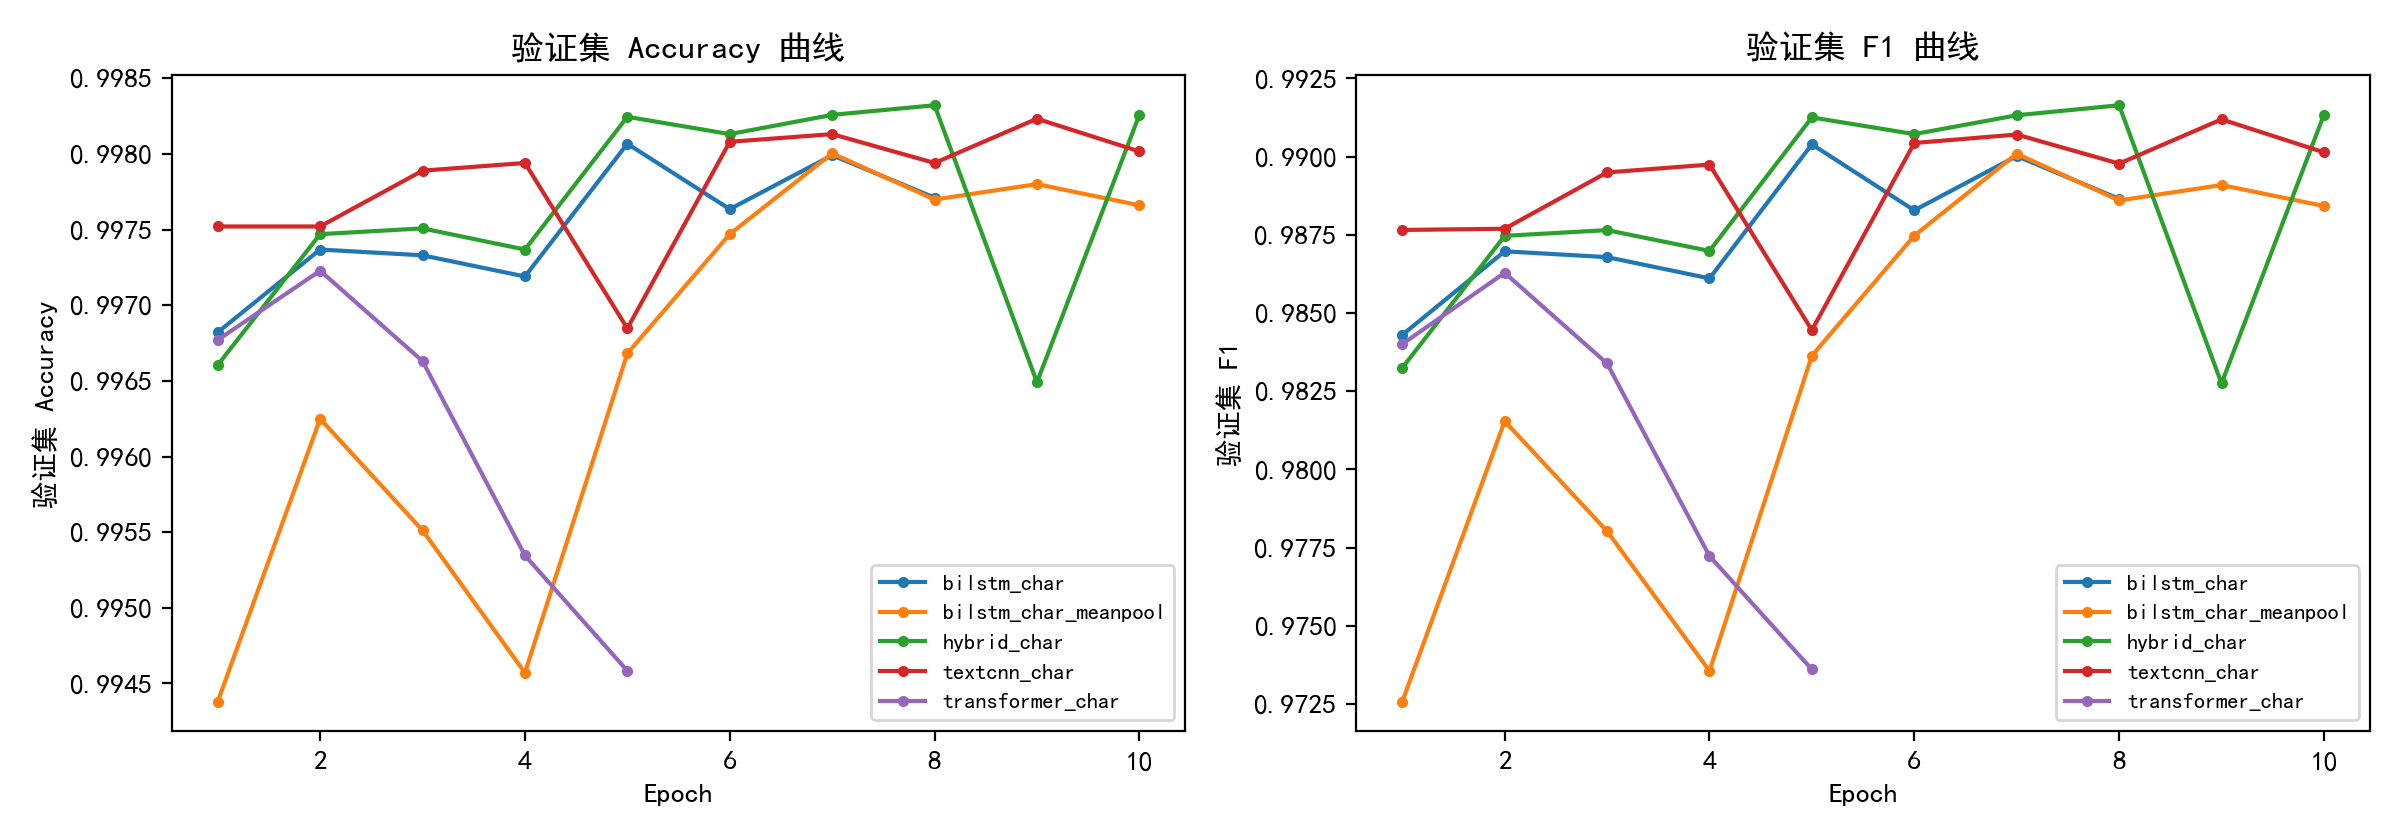
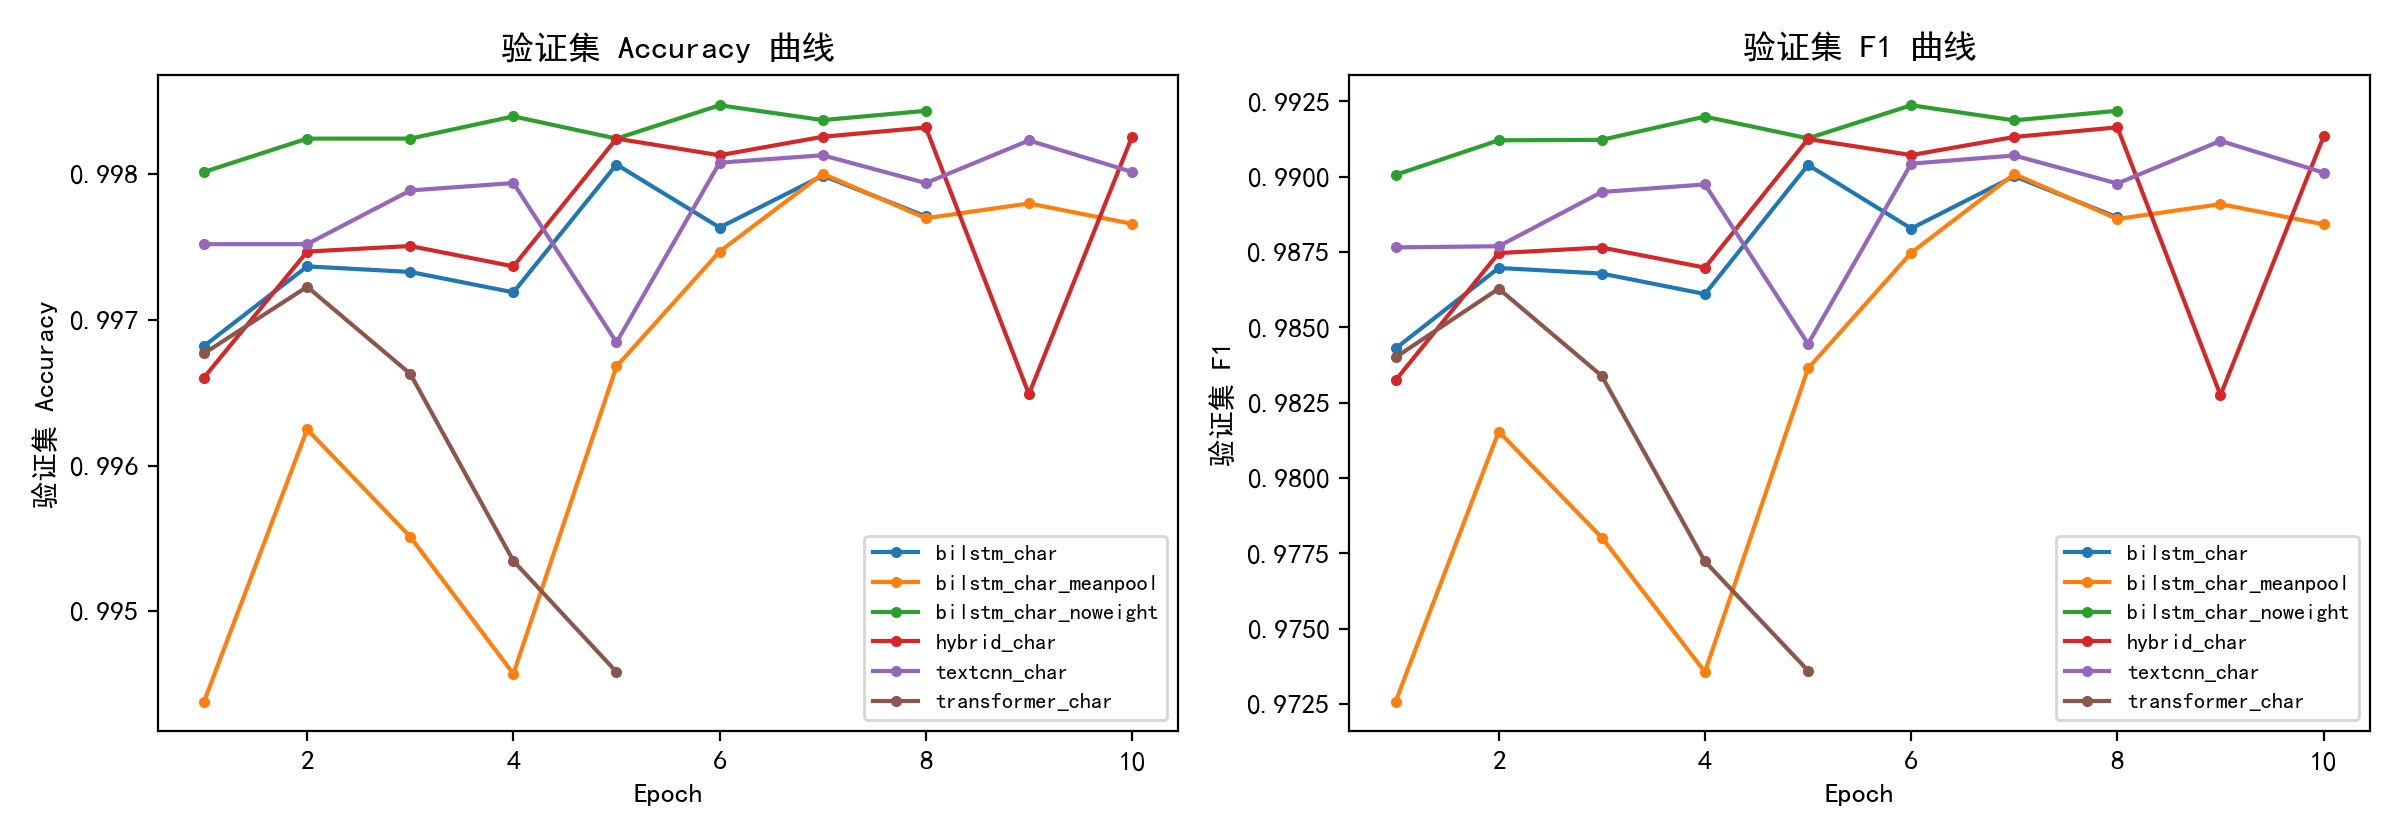
feat: 消融②结果补入报告（类别加权权衡分析），最终版报告

diff --git a/src/make_report.py b/src/make_report.py
@@ -322,12 +322,20 @@ def build_report(doc):
              "BiLSTM（注意力池化，无类别加权）"]
     abl_variants.sort(key=lambda x: order.index(x[0]) if x[0] in order else 99)
     if abl_variants:
+        import csv as _csv
         abl_rows = []
         for variant, r in abl_variants:
-            t, v = r["test"], r.get("val", {})
+            t = r["test"]
+            val_f1 = None
+            r_tag = r.get("tag") or f"{r.get('model', '')}_{r.get('level', '')}"
+            hist_path = os.path.join(MODEL_DIR, f"{r_tag}_history.csv")
+            if os.path.exists(hist_path):
+                with open(hist_path, encoding="utf-8") as f:
+                    val_f1 = max(float(h["val_f1"])
+                                 for h in _csv.DictReader(f))
             abl_rows.append([variant, fmt(t["f1"]), fmt(t["recall"]),
                              fmt(t["precision"]), fmt(t["accuracy"]),
-                             fmt(v.get("f1"), 4)])
+                             fmt(val_f1, 4)])
         add_table(doc,
                   ["配置", "测试 F1", "测试 Recall", "测试 Precision",
                    "测试 Accuracy", "验证 F1"],
@@ -340,15 +348,20 @@ def build_report(doc):
             no_w_row = next((r for v, r in abl_variants if "无类别加权" in v), None)
             if weight_row and no_w_row:
                 d_rec = weight_row["test"]["recall"] - no_w_row["test"]["recall"]
+                d_pre = weight_row["test"]["precision"] - no_w_row["test"]["precision"]
                 d_f1 = weight_row["test"]["f1"] - no_w_row["test"]["f1"]
-                rec_desc = f"去掉加权后召回率下降 {abs(d_rec):.4f}" if d_rec > 0 \
-                    else f"去掉加权后召回率反而上升 {abs(d_rec):.4f}"
-                f1_desc = f"F1 下降 {abs(d_f1):.4f}" if d_f1 > 0 \
-                    else f"F1 上升 {abs(d_f1):.4f}"
-                add_p(doc, f"由表 1 可见：注意力池化与均值池化在该任务上性能接近"
-                           f"（短信文本较短、平均 25.6 字，长程依赖有限）；类别加权"
-                           f"损失对正负样本不均衡（垃圾短信仅占 10%）问题具有缓解"
-                           f"作用——{rec_desc}，{f1_desc}。", indent=True)
+                rec_dir = "提升" if d_rec > 0 else "降低"
+                pre_dir = "降低" if d_pre < 0 else "提升"
+                f1_dir = "提升" if d_f1 > 0 else "降低"
+                add_p(doc, f"由表 1 可见：① 注意力池化与均值池化在该任务上性能接近"
+                           f"（短信文本较短、平均 25.6 字，长程依赖有限）；② 类别"
+                           f"加权损失以牺牲精确率为代价换取了召回率——去掉加权后"
+                           f"召回率{rec_dir} {abs(d_rec):.4f}、精确率{pre_dir} "
+                           f"{abs(d_pre):.4f}、F1 {f1_dir} {abs(d_f1):.4f}。"
+                           f"这说明加权损失改变了正负类的决策边界偏向，实际部署时"
+                           f"可按业务对漏判/误报的代价偏好决定是否使用；在本数据集"
+                           f"上（垃圾短信占 10%），不加权的模型综合表现已足够好。",
+                           indent=True)
         else:
             add_p(doc, "由表 1 可见：注意力池化与均值池化在该任务上性能接近，"
                        "这是因为短信文本较短（平均 25.6 字）、长程依赖有限，"
